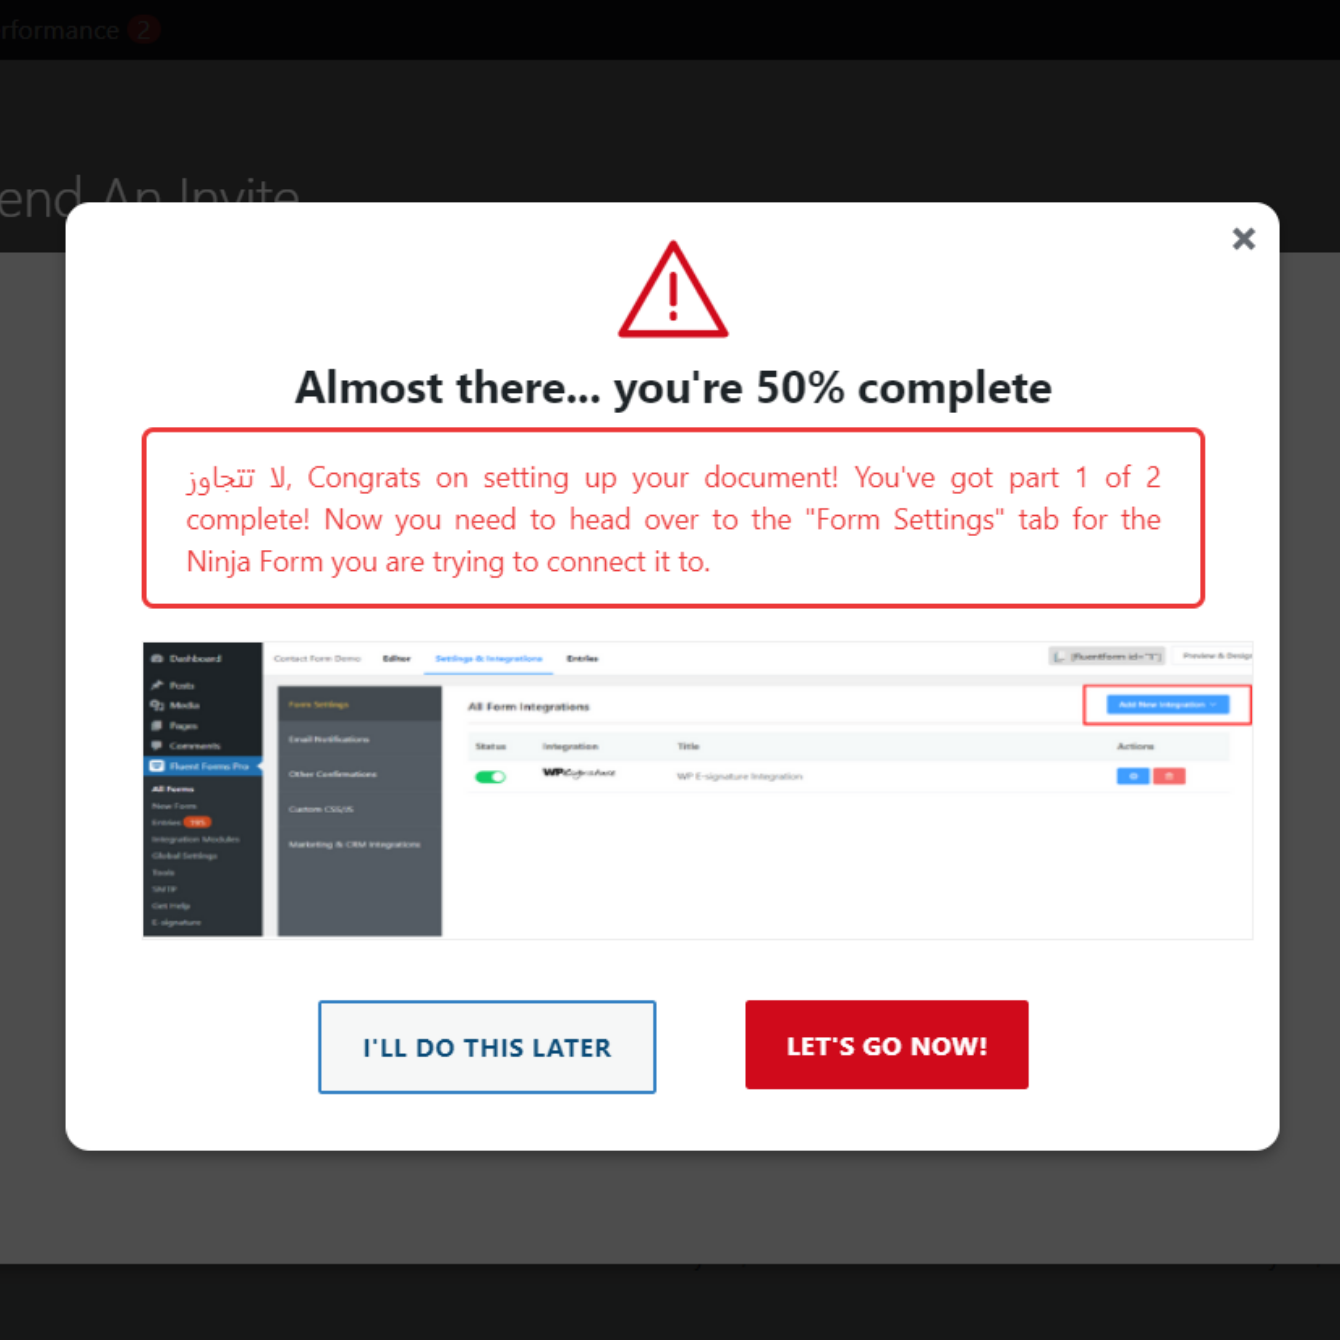
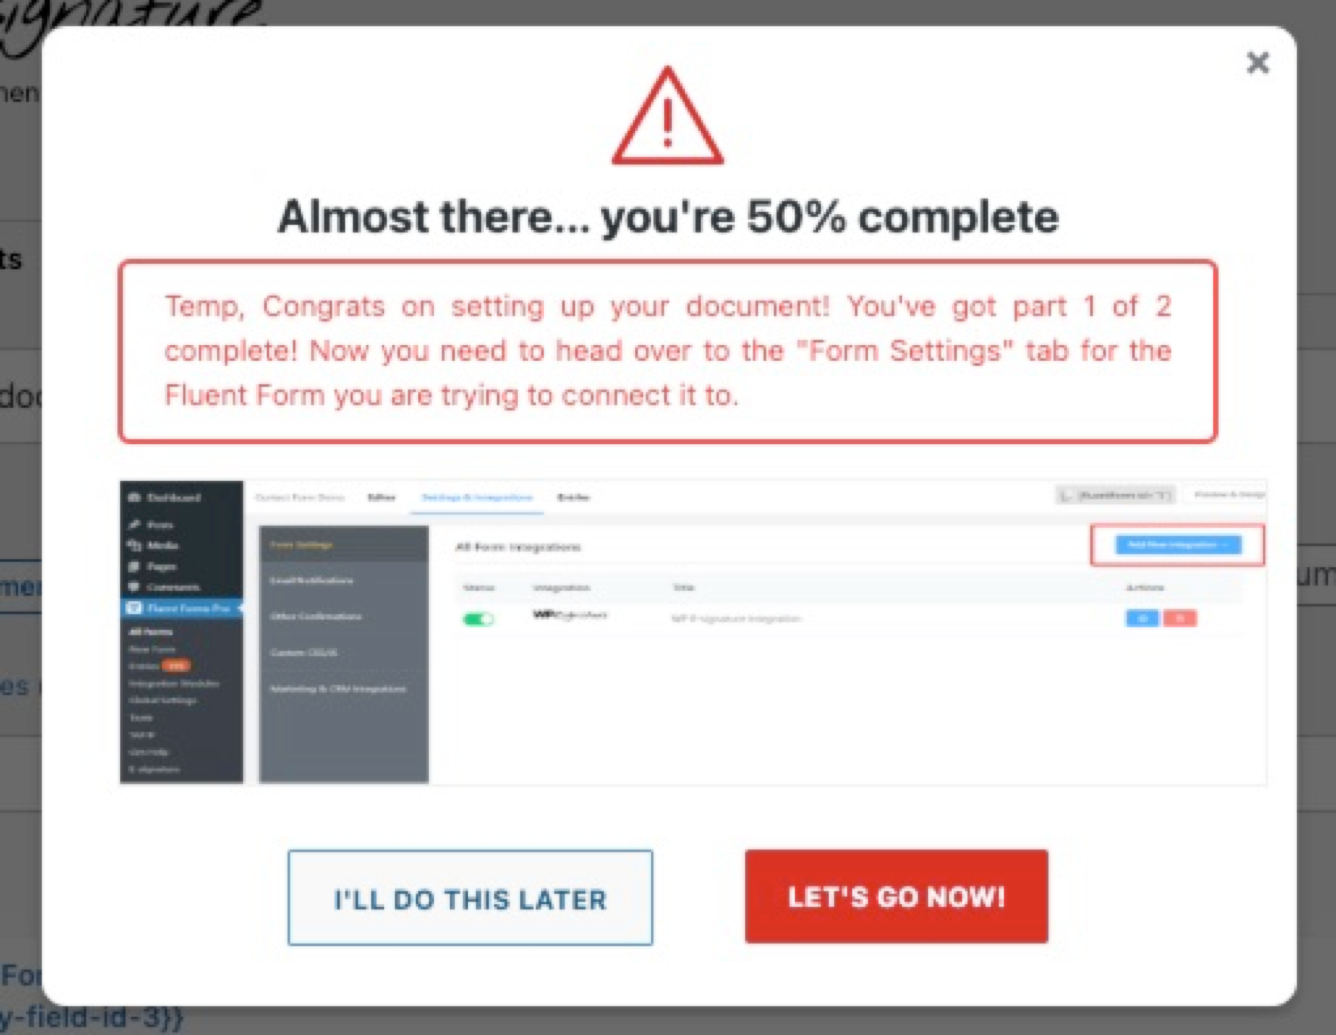
Updated text-case, links and images
Updated text-case, links and images

diff --git a/admin/about/assets/css/esig-about.css b/admin/about/assets/css/esig-about.css
@@ -212,7 +212,7 @@ a.approveme-mini-btn.outlined:hover {
 p.approveme-mini-btn {
   margin: 2em 0px 1.2em;
 }
-.gf-shortcode-wrap {
+.fluent-shortcode-wrap {
   background-color: #ffffff;
   padding: 7px 20px;
   margin: 5px 0 0;
@@ -668,12 +668,12 @@ img.gf-preview-wedsite-img {
   object-fit: contain;
 }
 
-img.gf-team-contracts-img {
+img.fluent-team-contracts-img {
   width: 483px;
   height: 427px;
   object-fit: contain;
 }
-img.gf-completed-steps-img {
+img.fluent-completed-steps-img {
   width: 489px;
   height: 305px;
   object-fit: contain;
@@ -685,7 +685,7 @@ img.gf-count-on-us-img {
   object-fit: contain;
 }
 
-img.gf-laptop-girl-img {
+img.fluent-laptop-girl-img {
   width: 174px;
   height: 123px;
   object-fit: contain;
@@ -698,7 +698,7 @@ img.gf-magic-hat-img {
   margin-right: 10px;
 }
 
-img.gf-advisor-img {
+img.fluent-advisor-img {
   width: 279px;
   height: 360px;
   object-fit: contain;
@@ -837,7 +837,7 @@ a.button-purple:hover {
     0 5px 10px rgba(121, 104, 255, 0.22);
 }
 
-section.gf-card {
+section.fluent-card {
   position: relative;
   margin: 1rem auto;
   display: flex;
@@ -853,7 +853,7 @@ section.gf-card {
   justify-content: space-between;
 }
 
-section.gf-card p.text {
+section.fluent-card p.text {
   font-family: "Source Sans Pro", sans-serif;
   font-size: 22px;
   font-weight: normal;
@@ -862,7 +862,7 @@ section.gf-card p.text {
   line-height: 1.36;
   color: #272d34;
 }
-section.gf-card h5.card-title {
+section.fluent-card h5.card-title {
   font-family: "Source Sans Pro", sans-serif;
   font-size: 34px;
   font-weight: 600;
@@ -874,16 +874,16 @@ section.gf-card h5.card-title {
   padding: 0;
 }
 
-section.gf-card a.link {
+section.fluent-card a.link {
   color: #7968ff;
   text-decoration: underline;
 }
-section.gf-card ul.small-inline {
+section.fluent-card ul.small-inline {
   display: flex;
   width: 100%;
   justify-content: space-between;
 }
-section.gf-card ul.small-inline li {
+section.fluent-card ul.small-inline li {
   font-size: 15px;
   font-weight: 300;
 }
@@ -978,7 +978,7 @@ section.company-support img {
     text-align: center;
     align-items: center;
   }
-  section.gf-card {
+  section.fluent-card {
     width: fit-content;
     flex-wrap: wrap;
     justify-content: center;
@@ -1031,7 +1031,7 @@ section.company-support img {
     max-width: 300px;
     height: auto;
   }
-  img.gf-advisor-img {
+  img.fluent-advisor-img {
     margin-right: 0px;
   }
   .footer-container {
@@ -1042,7 +1042,7 @@ section.company-support img {
   p {
     text-align: center;
   }
-  section.gf-card {
+  section.fluent-card {
     width: fit-content;
     flex-wrap: wrap;
     justify-content: center;

diff --git a/admin/about/views/core-about.php b/admin/about/views/core-about.php
@@ -283,8 +283,8 @@ function esig_generate_about_page(array $about_options = array())
                         <!-- END Sub-text -->
 
                         <!-- Start About card -->
-                        <section class="gf-card">
-                            <img src="<?php echo plugins_url('../assets/images/gf-girl-on-laptop-small.png', __FILE__); ?>" class="gf-laptop-girl-img" alt="Laptop girl" />
+                        <section class="fluent-card">
+                            <img src="<?php echo plugins_url('../assets/images/gf-girl-on-laptop-small.png', __FILE__); ?>" class="fluent-laptop-girl-img" alt="Laptop girl" />
                             <p class="text">Automatically collect digital signatures on contracts, after your visitors submit a form using ApproveMe's WP E-Signature. <a href="<?php echo $about_options['main-cta']; ?>#compliant" target="blank">UETA/ESIGN Compliant</a>, legally binding contracts with WordPress.</p>
                         </section>
                         <!-- End About card -->
@@ -323,7 +323,7 @@ function esig_generate_about_page(array $about_options = array())
 
 
                         <!-- Start The Solution -->
-                        <section class="gf-card">
+                        <section class="fluent-card">
                             <img src="<?php echo plugins_url('../assets/images/gf-magic-hat.png', __FILE__); ?>" class="gf-magic-hat-img" alt="magic hat" />
                             <div>
                                 <h5 class="card-title">Your all-in-one eSignature solution</h5>
@@ -378,7 +378,7 @@ function esig_generate_about_page(array $about_options = array())
 
                             <!-- Start Talk to advisor -->
                             <section class="footer-container">
-                                <img class="gf-advisor-img" src="<?php echo plugins_url('../assets/images/gf-advisor.png', __FILE__); ?>">
+                                <img class="fluent-advisor-img" src="<?php echo plugins_url('../assets/images/gf-advisor.png', __FILE__); ?>">
 
                                 <div>
                                     <p class="medium-text">We're here to help! </br>

diff --git a/admin/views/autoload.php b/admin/views/autoload.php
@@ -65,7 +65,7 @@ function fluentforms_message($esigStatus,$pluginName)
 
                   break;
                 case 'no_wpe':
-                    return '<span class="esig-icon-esig-alert"></span> <h4>' . $asterisk . 'WP E-Signature is not installed. It is required to run the Fluent Forms Signature add-on. &nbsp; <span class="button-container"><a class="about-button" href="https://www.approveme.com/fluent-forms-signature-special/?utm_campaign=wprepo&&utm_campaign=ninjaforms">Get your WP E-Signature license</a></span></h4>';
+                    return '<span class="esig-icon-esig-alert"></span> <h4>' . $asterisk . 'WP E-Signature is not installed. Fluent Form Fluent Forms Signature add-on. &nbsp; <span class="button-container"><a class="about-button" href="https://www.approveme.com/fluent-forms-signature-special/?utm_campaign=wprepo&&utm_campaign=ninjaforms">Get your WP E-Signature license</a></span></h4>';
                     break;
                 default:
                   return false;
